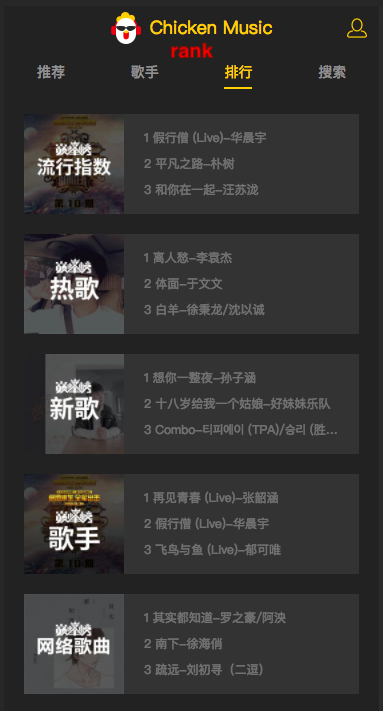
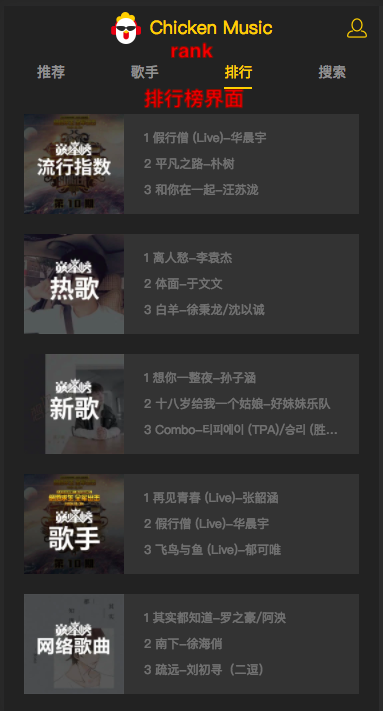
9-3: 排行榜详情界面---Vuex数据通讯

Changed region(s): [[0.3734, 0.1238, 0.6319, 0.1547]]

diff --git a/README.md b/README.md
@@ -502,16 +502,17 @@ cnpm install lyric-parser
 1. 设置合适高度, 刷新scroll
 
 
-## 9-3: 排行榜界面---Vuex数据通讯
+## 9-3: 排行榜详情界面---Vuex数据通讯
 *(top-list.vue)*
+- ✨✨
 
 
-## 9-4: 排行榜界面---抓取数据和应用
+## 9-4: 排行榜详情界面---抓取数据和应用
 *(top-list.vue)*
 *(api/rank.js)*
 
 
-## 9-5: 排行榜界面---组件扩展, 前三排行奖杯
+## 9-5: 排行榜详情界面---组件扩展, 前三排行奖杯
 *(top-list.vue)*
 *(song-list.vue)*
 
